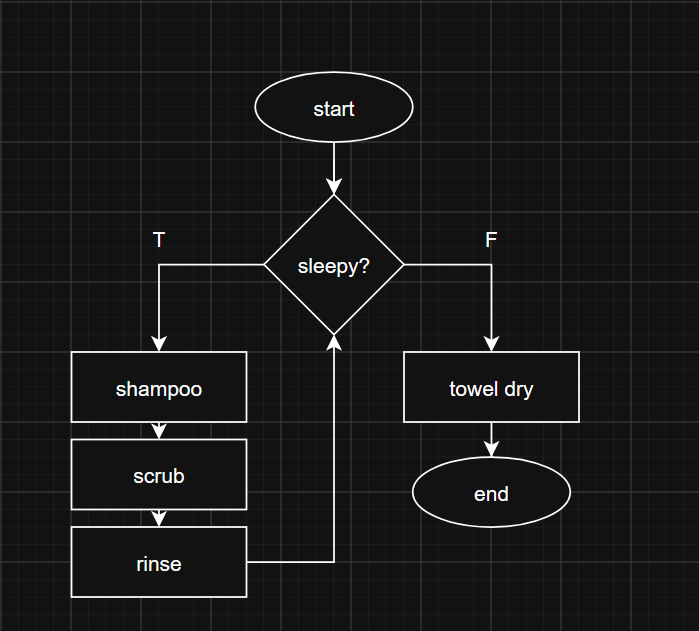
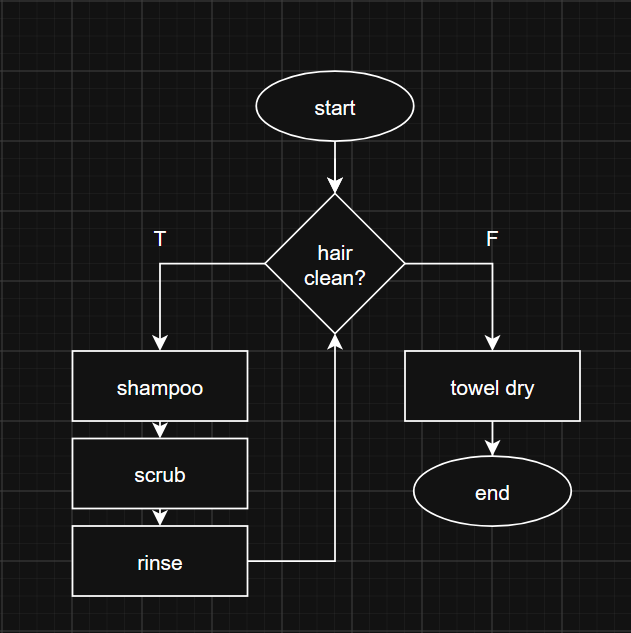
enjoy

diff --git a/src/notes/cmsc12/04-Conditional and Iterative Statements.md b/src/notes/cmsc12/04-Conditional and Iterative Statements.md
@@ -1,0 +1,86 @@
+# Conditional and Iterative Statements
+
+This note will cover implementation of **conditions** and **iterations** into Python.
+## Conditional Statements
+
+A condition is a statement describing the **value** of a variable or the **relationship** between two or more variables.
+- A condition can only evaluate to **true** or **false**.
+- Conditions can be **nested**, meaning you can put another condition inside another. This was mentioned in a previous note.
+
+If statements in python have three types: `if`, `elif`, and `else`.
+- `if` statements can be used alone or used to start an `if-else` chain.
+- `elif` require that an `if` statement is used before it. `An if-else` chain can have as many instances of  `elif` as you require.
+- `else` is placed at the end of an `if-else` chain. Acting as a **base case** that will run when all preceding statements are not `True`.
+
+A complex `if-else` chain can look something like this:
+```
+#let "be" stand for boolean expression
+if be1:
+	code
+elif be2:
+	if be3:
+		code
+	else:
+		code
+elif be4:
+	code
+else:
+	code
+```
+
+Be careful with **indentation**, since python uses **indentation** instead of `{}`, make sure that the code block you want to run in the `if` statement is indented **relative** to it.
+
+```
+if condition:
+	code_must_be_indented
+```
+
+## Iterative Statements
+
+A **loop** that **repeats** execution of a block of code as long as a **condition** holds **True**.
+
+### Types of Loops
+
+Python has two types of loops:
+- `while`
+	- Fits the formal definition of the loop. A while loop **only** repeats execution while the condition evaluates to **True**.
+```
+while condition:
+	code
+```
+
+- `for`
+	- **Repeats** code **for each item** in a `sequence` or `iterable`, these are things such as `list`, `string`, or `range()`.
+	- The loop will stop once **all** items in the `iterable` have been passed.
+```
+for item in [1,2,3,4]
+	print(item)
+	
+'''
+this will print:
+1
+2
+3
+4
+'''
+
+for item in range(1, 6): # ranges will always stop at 1 below the end value.
+	print(item)
+	
+'''
+this will print:
+1
+2
+3
+4
+5
+'''
+```
+
+### Special Keywords
+
+There are two keywords you can use to modify a loop's flow:
+- `break`
+	- **Exits** you out of the smallest enclosing loop, **terminating** all further execution.
+- `continue`
+	- Forces a loop to start the **next iteration**, **skipping** the execution of all lines after the `continue`.

diff --git a/src/notes/cmsc12/03-Programming-intro.md b/src/notes/cmsc12/03-Programming-intro.md
@@ -104,6 +104,16 @@ To get an input, you can use `input()`. This **function** will return a `string`
 user_in = input("type something: ")
 ```
 
+### Type Casting
+
+This is converting a value into another type. Say considering a string to a number, or vice versa. Because `x = "67"` will obviously make python store it as a string, but what if you wanted to add a number to it?
+
+**e.g.** 
+```
+x = int("67")
+x = float("68")
+x string("69")
+```
 ## More on Python & Other Nitpicky Stuff
 
 This is kept at the end because this is likely extraneous information to the course itself but was still included in the handout.
